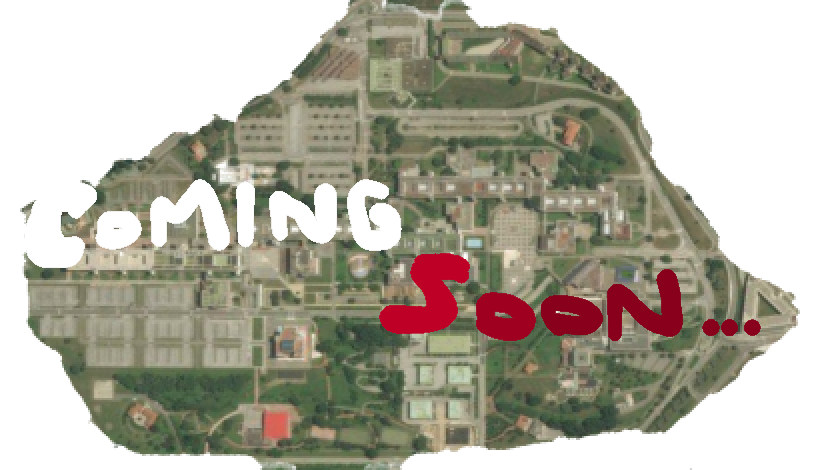
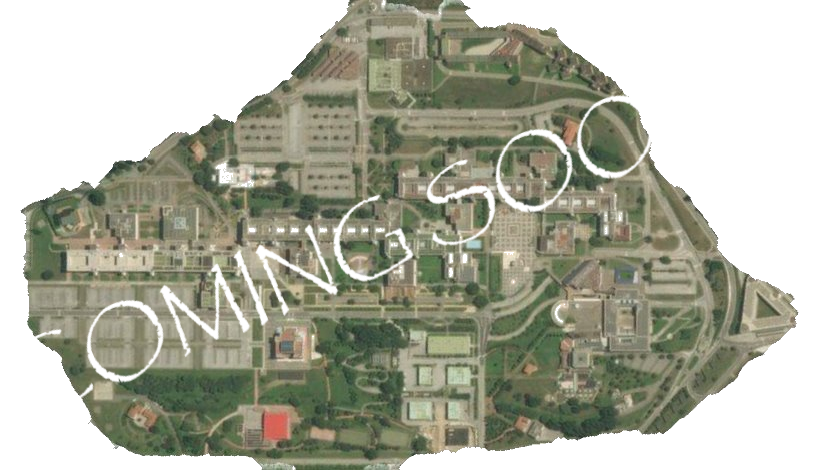
Merge origin/master
Conflicts:
	src/deadzone/AnimatedSprite.java
	src/deadzone/Board.java
	src/deadzone/Handler.java
	src/deadzone/KAdapter.java
	src/deadzone/MapFrame.java
	src/deadzone/Player.java
	src/deadzone/Projectile.java
	src/deadzone/SinglePlayer.java
	src/deadzone/Sprite.java
	src/deadzone/Zombie.java

diff --git a/src/deadzone/MapFrame.java b/src/deadzone/MapFrame.java
@@ -81,16 +81,15 @@ public class MapFrame extends javax.swing.JFrame {
 
         jLabel3.setFont(new java.awt.Font("Papyrus", 1, 24)); // NOI18N
         jLabel3.setForeground(new java.awt.Color(255, 255, 255));
-        jLabel3.setHorizontalAlignment(javax.swing.SwingConstants.LEFT);
+        jLabel3.setHorizontalAlignment(javax.swing.SwingConstants.CENTER);
         jLabel3.setText("Fisciano");
         jLabel3.setVerticalAlignment(javax.swing.SwingConstants.TOP);
         getContentPane().add(jLabel3);
-        jLabel3.setBounds(520, 90, 120, 39);
+        jLabel3.setBounds(510, 80, 120, 39);
 
         jLabel4.setFont(new java.awt.Font("Papyrus", 1, 28)); // NOI18N
         jLabel4.setForeground(new java.awt.Color(255, 255, 255));
         jLabel4.setHorizontalAlignment(javax.swing.SwingConstants.LEFT);
-        jLabel4.setText("Coming soon...");
         jLabel4.setVerticalAlignment(javax.swing.SwingConstants.TOP);
         getContentPane().add(jLabel4);
         jLabel4.setBounds(460, 40, 216, 39);
@@ -125,7 +124,6 @@ public class MapFrame extends javax.swing.JFrame {
         getContentPane().add(jButtonFisciano);
         jButtonFisciano.setBounds(400, 140, 350, 250);
 
-        jButtonStandardMap.setText("jButton1");
         jButtonStandardMap.setBorder(javax.swing.BorderFactory.createLineBorder(new java.awt.Color(255, 255, 255)));
         jButtonStandardMap.setBorderPainted(false);
         jButtonStandardMap.setMaximumSize(new java.awt.Dimension(200, 200));
@@ -180,14 +178,12 @@ public class MapFrame extends javax.swing.JFrame {
 
     private void jButtonStandardMapActionPerformed(java.awt.event.ActionEvent evt) {//GEN-FIRST:event_jButtonStandardMapActionPerformed
         // TODO add your handling code here:
-        jButtonFisciano.setBorderPainted(false);
         jButtonStandardMap.setBorderPainted(true);
     }//GEN-LAST:event_jButtonStandardMapActionPerformed
 
     private void jButtonFiscianoActionPerformed(java.awt.event.ActionEvent evt) {//GEN-FIRST:event_jButtonFiscianoActionPerformed
         // TODO add your handling code here:
         jButtonStandardMap.setBorderPainted(false);
-        jButtonFisciano.setBorderPainted(true);
     }//GEN-LAST:event_jButtonFiscianoActionPerformed
 
     

diff --git a/src/deadzone/SinglePlayer.java b/src/deadzone/SinglePlayer.java
@@ -21,7 +21,6 @@ import javax.swing.JOptionPane;
  */
 public class SinglePlayer extends javax.swing.JFrame {
     
-    Immagine pannello;
 
     private ImageIcon ridimensionaImageIcon(URL url, int nuovaW, int nuovaH){
         ImageIcon image = new ImageIcon(url);
@@ -282,16 +281,14 @@ public class SinglePlayer extends javax.swing.JFrame {
 
     private void jButtonUomoActionPerformed(java.awt.event.ActionEvent evt) {//GEN-FIRST:event_jButtonUomoActionPerformed
         // TODO add your handling code here:
-        jButtonDonna.setBorderPainted(false);
         jButtonUomo.setBorderPainted(true);
         System.out.println("Selezionato Uomo");
     }//GEN-LAST:event_jButtonUomoActionPerformed
 
     private void jButtonDonnaActionPerformed(java.awt.event.ActionEvent evt) {//GEN-FIRST:event_jButtonDonnaActionPerformed
         // TODO add your handling code here:
-        jButtonUomo.setBorderPainted(false);
-        jButtonDonna.setBorderPainted(true);
         System.out.println("Selezionato Donna");
+        jButtonUomo.setBorderPainted(false);
     }//GEN-LAST:event_jButtonDonnaActionPerformed
 
     private void jButtonBackActionPerformed(java.awt.event.ActionEvent evt) {//GEN-FIRST:event_jButtonBackActionPerformed
